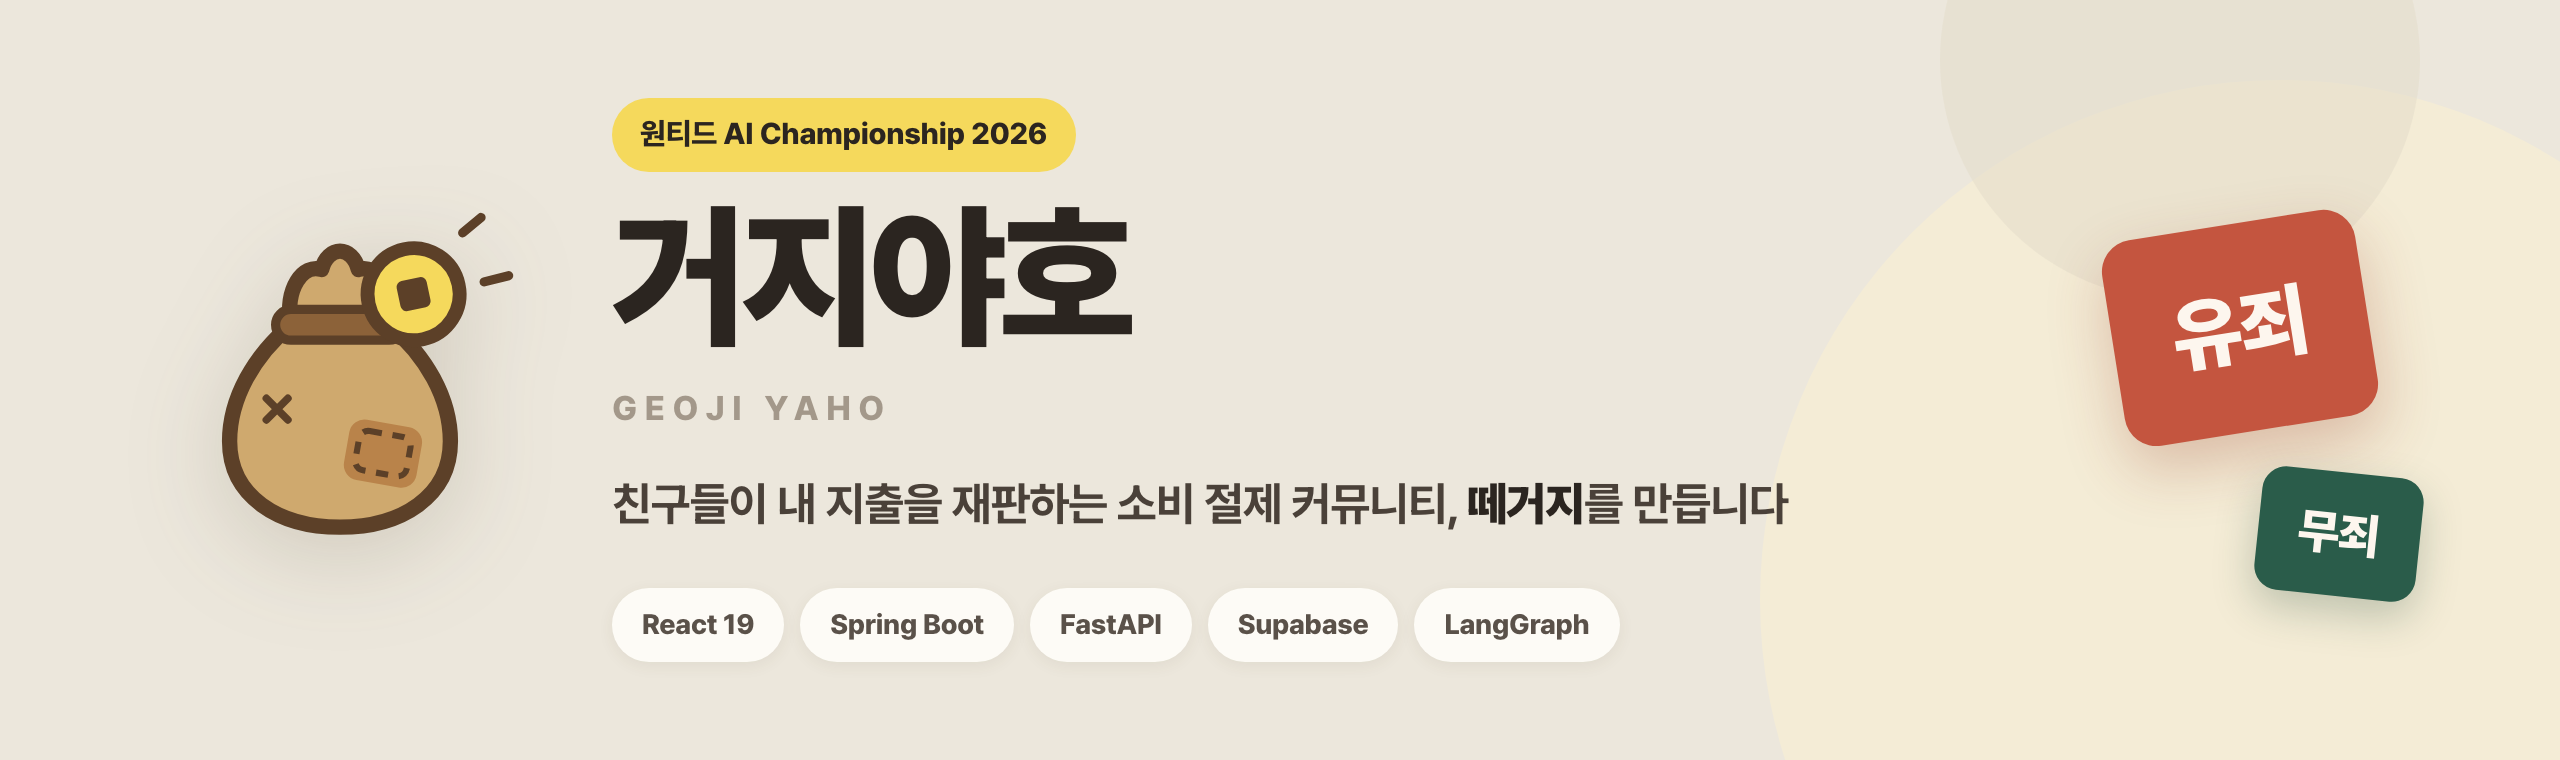
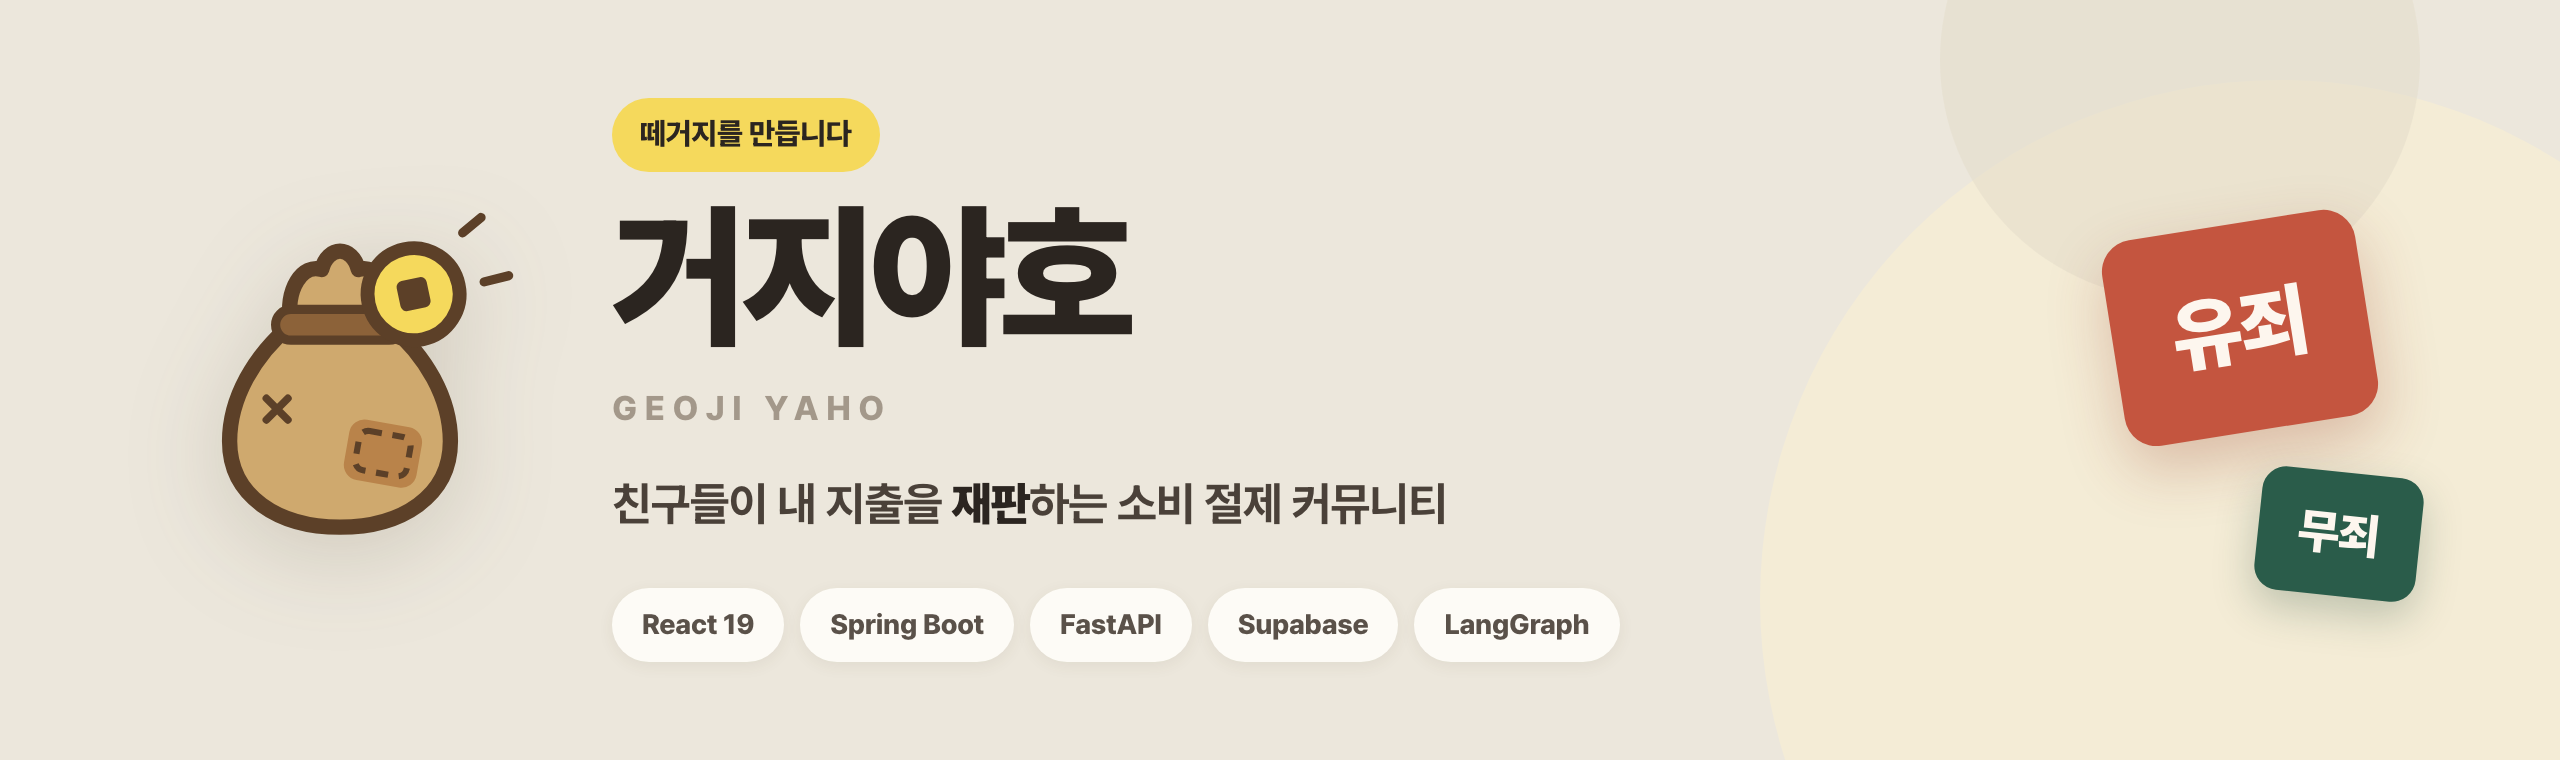
docs: 프로필에서 대회 언급을 뺀다
배너 칩과 뱃지, 일정 표에 들어 있던 대회 이름과 심사 일정을
지우고 제품과 팀 소개만 남긴다.

Claude-Session: https://claude.ai/code/session_01BuKDBMGQ5AuRDSrpXMNPME

Changed region(s): [[0.25, 0.1211, 0.4375, 0.2421], [0.5625, 0.6355, 0.7188, 0.6961], [0.375, 0.6355, 0.4062, 0.6961]]

diff --git a/profile/README.md b/profile/README.md
@@ -5,7 +5,7 @@
 <br>
 
 [![데모](https://img.shields.io/badge/데모_보러가기-떼거지-2b2520?style=for-the-badge&labelColor=f5d95c)](https://geoji-yaho.github.io/geoji-web/)
-[![대회](https://img.shields.io/badge/원티드_AI_Championship-2026-c4553f?style=for-the-badge&labelColor=2b2520)](https://www.wanted.co.kr/)
+[![판결](https://img.shields.io/badge/판결-유죄_무죄_동의_기각_각하-c4553f?style=for-the-badge&labelColor=2b2520)](#이렇게-돌아갑니다)
 [![팀](https://img.shields.io/badge/팀원-5명-2a5c4a?style=for-the-badge&labelColor=2b2520)](#팀)
 
 </div>
@@ -136,10 +136,9 @@
 |---|---|
 | 8/31 | 팀 결성. 5인 |
 | 9/2 | MVP 범위와 판결 구조 확정 |
-| 9/6 | 디자인 파운데이션, 공통 컴포넌트 |
+| 9/6 | 디자인 파운데이션과 공통 컴포넌트 |
 | 9/14 | 화면 열넷 API 연결, 카카오 로그인 |
-| **9/20** | **제출 마감** |
-| 9/21 ~ 10/5 | 예선 심사와 온라인 투표 |
+| **9/20** | **v1 완성** |
 
 <br>
 
